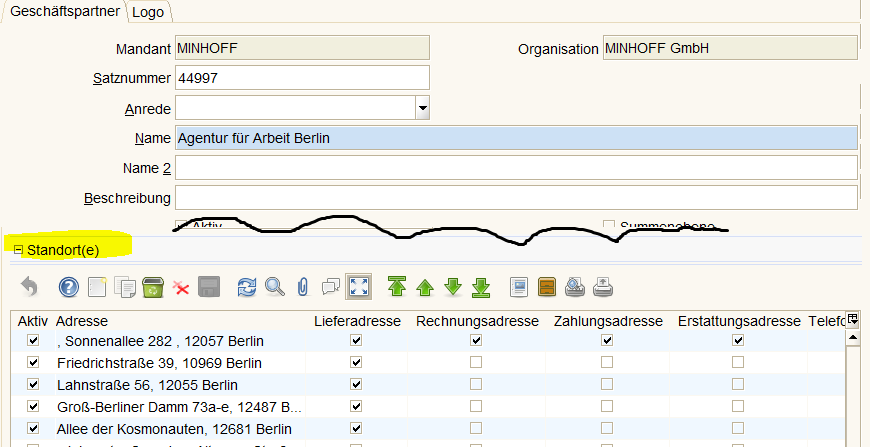
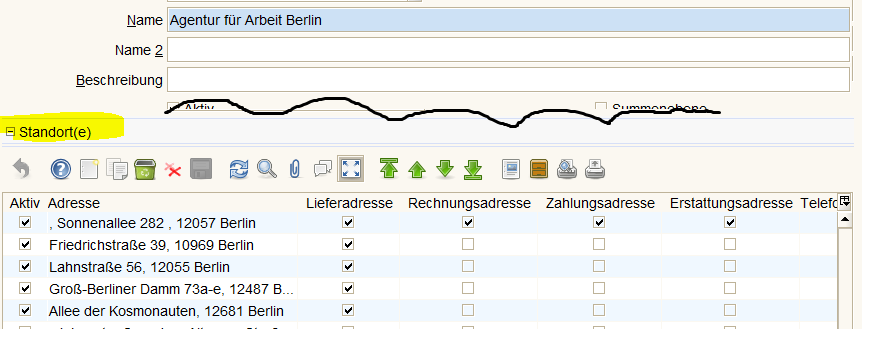
Standorte als ein embedded Tab

diff --git a/1.de-mpiere.md b/1.de-mpiere.md
@@ -49,9 +49,15 @@ where not(isbaselanguage='Y' or issystemlanguage='Y')
 
 Im folgenden Beispiel werden
 * die Benennungen der Register angepasst, um den Charakter des Registers gerecht zu werden. Es gibt mehrere Standorte.
-* die "veraltete" Information ISDN wird durch eMail ersetzt
+* die "veraltete" Information ISDN wird durch `eMail` ersetzt
 * das Layout wird etwas verändert
-** Felder Mandant und Org sind redundant und nicht notwendig
-** Felder mit Bezug zu Adresse wurden dorthin gruppiert
+  * Felder `Mandant` und `Organisation` sind redundant und nicht notwendig
+  * Felder mit Bezug zu Adresse wurden dorthin gruppiert
 
 ![](images/BP-location-layout.png)
+
+### embedded Tab
+
+Im zweiten Schritt wird das Register `Standorte` als ein "embedded Tab" definiert, so dass alle Standortattribute als Einzelzeilen sichtbar sind
+
+![](images/BP-location-subtab.png)
